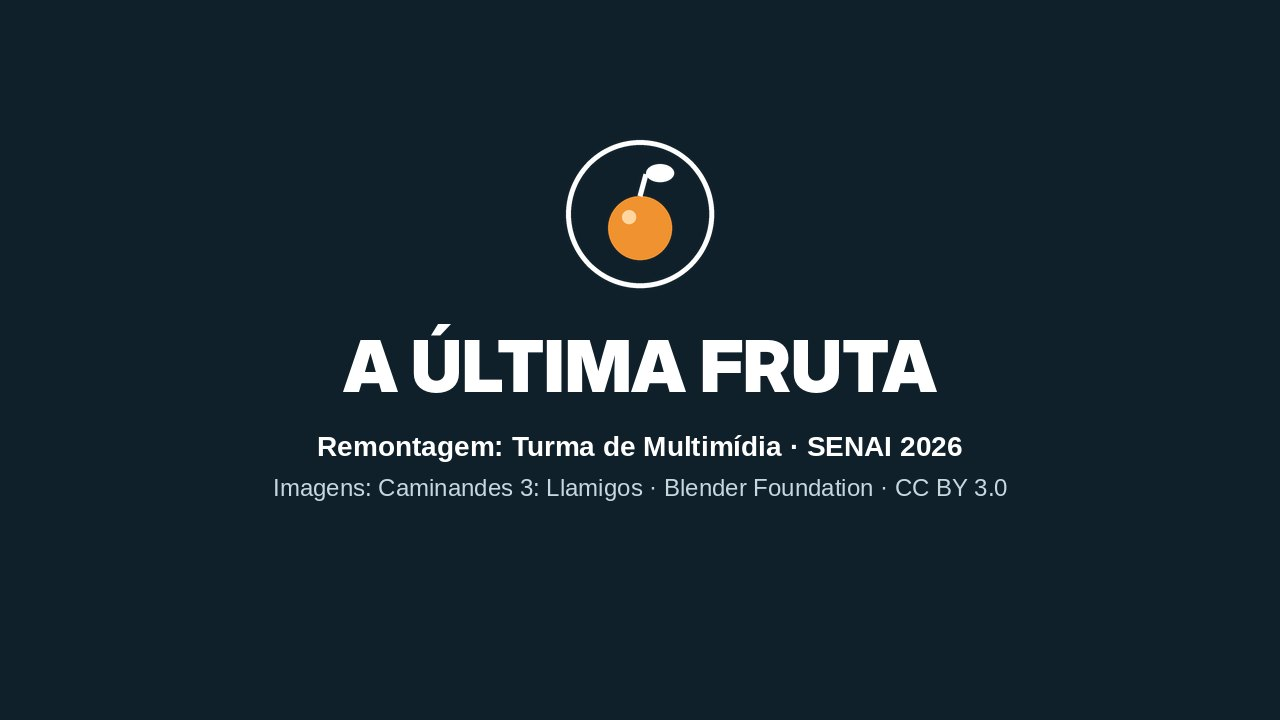
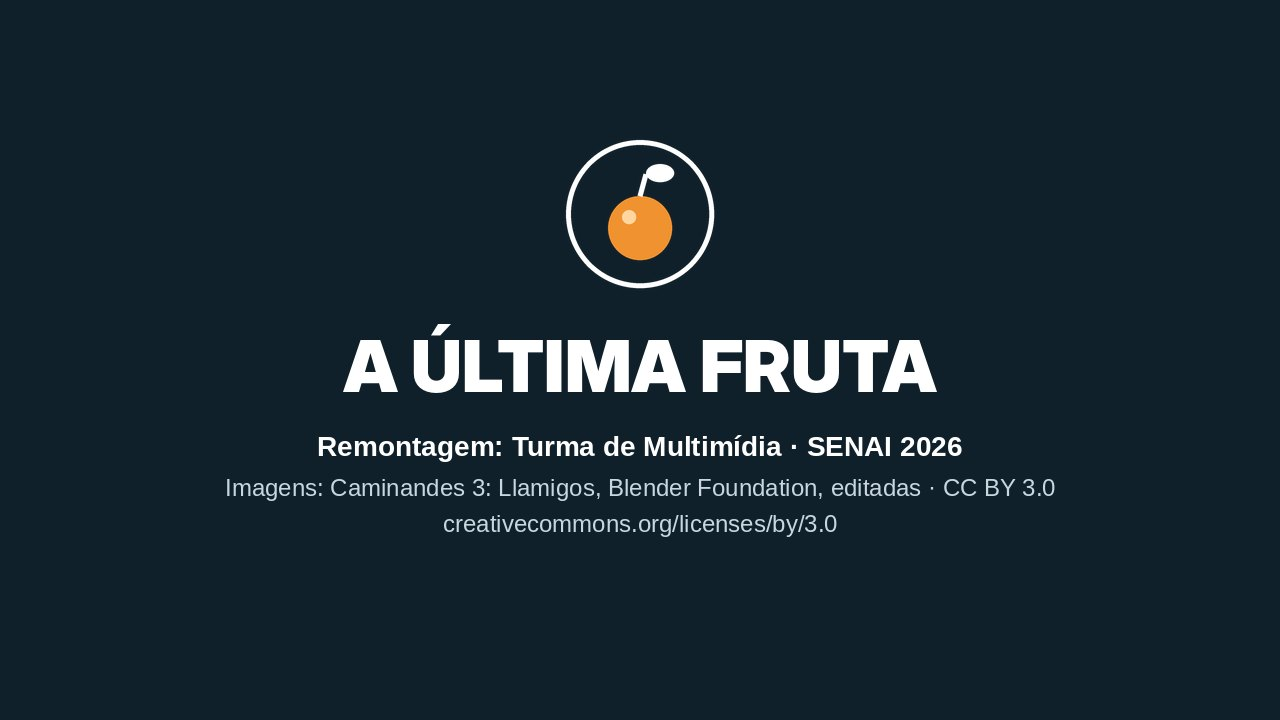
Mostra a atribuição CC BY completa na assinatura de exemplo da aula 12
A tela de exemplo e a abertura em MP4 passam a trazer o aviso de edição
e o endereço da licença que o pedido 6 exige.

Claude-Session: https://claude.ai/code/session_01KSwdtmRt2W4wMQedyDoYND

Changed region(s): [[0.1875, 0.6417, 0.8125, 0.7639]]

diff --git a/scripts/build-audiovisual-12-media.py b/scripts/build-audiovisual-12-media.py
@@ -238,7 +238,9 @@ def end_card(picto='picto-fruta.png'):
     d = ImageDraw.Draw(image)
     d.text((W // 2, 322), TITLE, font=font('black', 72), fill=WHITE, anchor='ma')
     d.text((W // 2, 430), 'Remontagem: Turma de Multimídia · SENAI 2026', font=font('bold', 28), fill=WHITE, anchor='ma')
-    d.text((W // 2, 474), 'Imagens: Caminandes 3: Llamigos · Blender Foundation · CC BY 3.0', font=font('regular', 24), fill=(200, 214, 222), anchor='ma')
+    # Crédito completo: o MP4 pode circular sem CREDITOS.txt.
+    d.text((W // 2, 474), 'Imagens: Caminandes 3: Llamigos, Blender Foundation, editadas · CC BY 3.0', font=font('regular', 24), fill=(200, 214, 222), anchor='ma')
+    d.text((W // 2, 510), 'creativecommons.org/licenses/by/3.0', font=font('regular', 24), fill=(200, 214, 222), anchor='ma')
     return image
 
 
